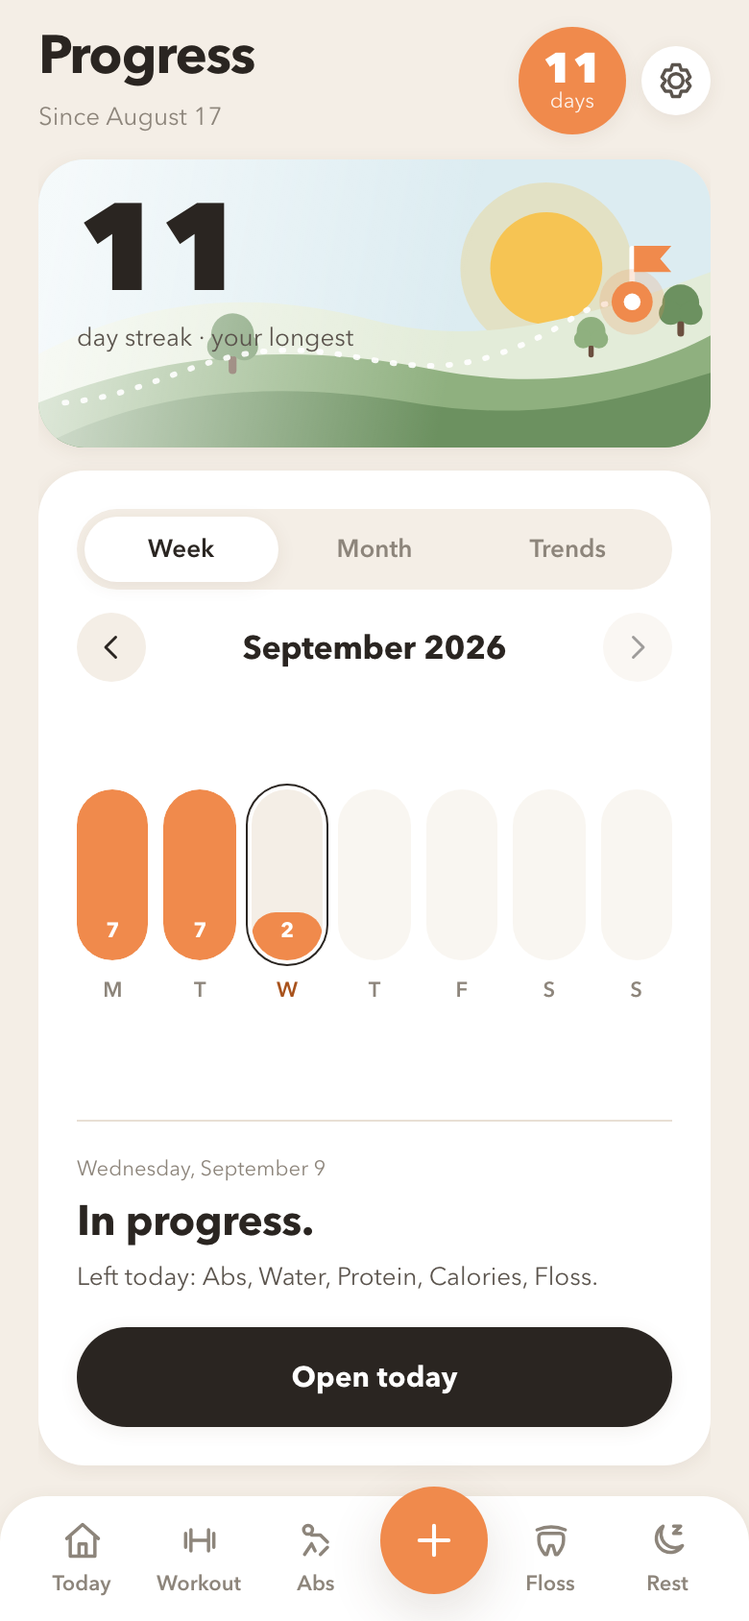
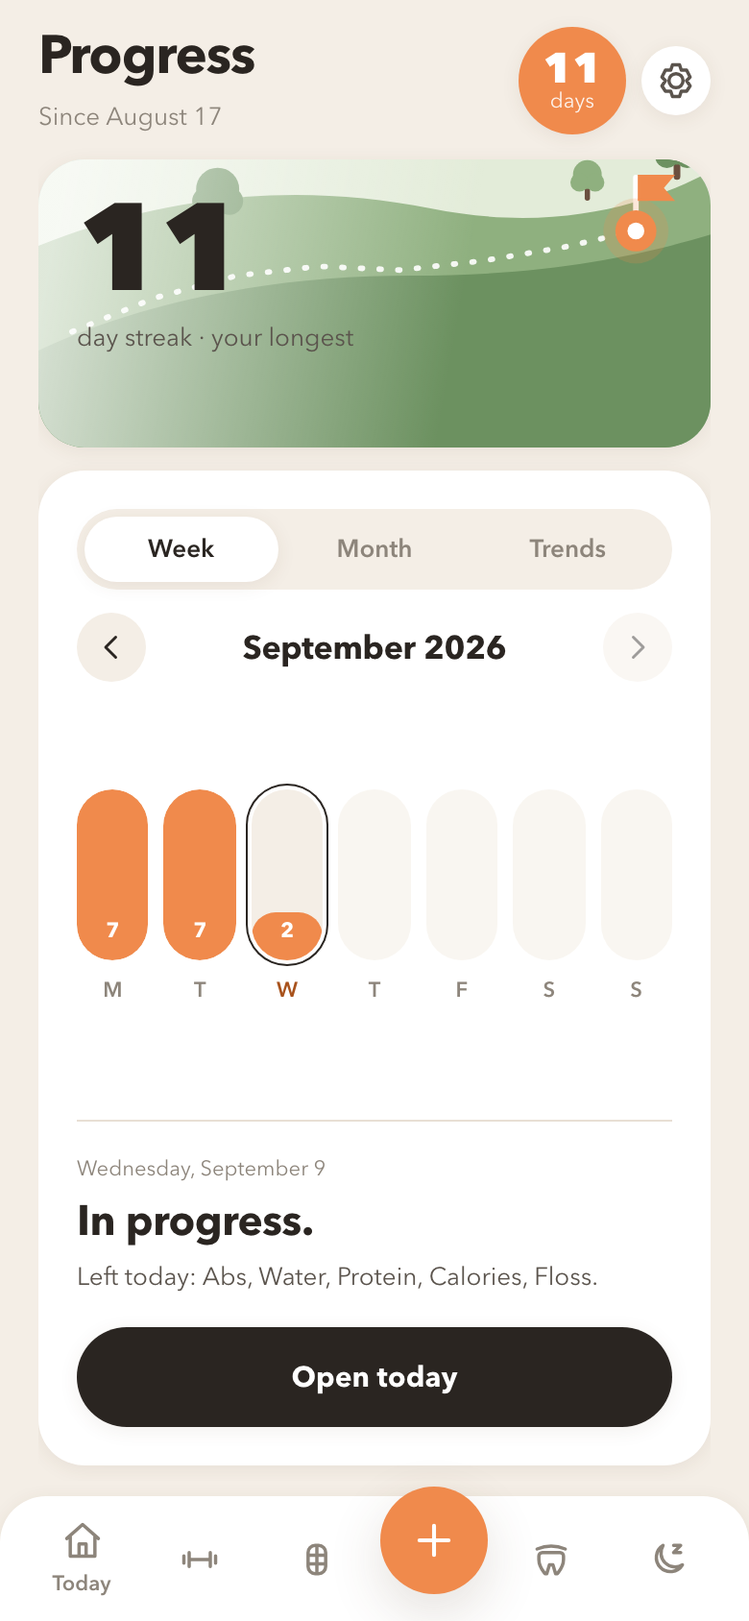
Answer the blind round: one visual language, a scene that fills its frame
Water and food now speak the same way, with a bar each, after a reviewer
picked the reference for craft on exactly that split. The hills fill the
card instead of sitting under an empty sky, and the walker stands at the
day's progress, so the screen shows how today is going before a number is
read. Tabs carry the picture and tiles carry the word, so no habit is
labelled twice in one viewport.

Claude-Session: https://claude.ai/code/session_01VWWXSJPjffuaUiM86s3vvD

diff --git a/app/globals.css b/app/globals.css
@@ -10,7 +10,7 @@ h1,h2,h3,p{margin:0}h1{font-size:var(--t-xxl);font-weight:700;line-height:1.1;le
 .streak-badge{display:flex;flex-direction:column;align-items:center;justify-content:center;width:var(--z-disc);height:var(--z-disc);border-radius:50%;background:var(--c-accent);color:var(--c-card);line-height:1;flex-shrink:0;box-shadow:var(--sh-card)}.streak-badge strong{font-size:var(--t-xl);font-weight:800}.streak-badge span{font-size:var(--t-xs);opacity:.9}
 .zone-row{display:flex;align-items:center;justify-content:space-between;background:var(--c-accentSoft);color:var(--c-accentInk);padding:var(--s-2) var(--s-3);font-size:var(--t-sm);border-radius:var(--r-sm);flex-shrink:0;margin-top:var(--s-2)}
 .today-view,.habit-view,.progress-view,.you-view{min-height:0;flex:1;display:flex;flex-direction:column;gap:var(--s-3);padding-top:var(--s-3);overflow:hidden}
-.hero{position:relative;flex:1;min-height:var(--z-heroShort);max-height:var(--z-hero);border-radius:var(--r-lg);overflow:hidden;text-align:left;box-shadow:var(--sh-card);background:var(--c-butterSoft);flex-shrink:1}.hero .scene{position:absolute;inset:0;width:100%;height:100%}
+.hero{position:relative;flex:1;min-height:var(--z-heroShort);max-height:var(--z-heroMax);border-radius:var(--r-lg);overflow:hidden;text-align:left;box-shadow:var(--sh-card);background:var(--c-butterSoft);flex-shrink:1}.hero .scene{position:absolute;inset:0;width:100%;height:100%}
 .hero-copy{position:absolute;left:var(--s-5);top:var(--s-5);right:var(--z-thumb);display:flex;flex-direction:column;gap:var(--s-1);color:var(--c-ink)}.hero-copy strong{font-size:var(--t-xl);font-weight:800;letter-spacing:var(--ls-snug)}.hero-copy span{font-size:var(--t-sm);font-weight:600;color:var(--c-ink2)}.hero.is-complete .hero-copy strong{font-size:var(--t-xxl)}
 .hero-tag{position:absolute;right:var(--s-4);top:var(--s-4);display:inline-flex;align-items:center;gap:var(--s-1);background:var(--c-card);color:var(--c-ink);border-radius:var(--r-pill);padding:var(--s-2) var(--s-3) var(--s-2) var(--s-2);font-size:var(--t-sm);font-weight:700;box-shadow:var(--sh-card)}.hero-tag .mark{width:var(--s-5);height:var(--s-5)}.hero.is-done .hero-tag{background:var(--c-accent);color:var(--c-card)}
 .hero-back{position:absolute;left:var(--s-4);bottom:var(--s-4);background:var(--c-card);border-radius:var(--r-pill);padding:var(--s-2) var(--s-3);font-size:var(--t-sm);font-weight:700}
@@ -19,14 +19,14 @@ h1,h2,h3,p{margin:0}h1{font-size:var(--t-xxl);font-weight:700;line-height:1.1;le
 .pair{display:grid;grid-template-columns:1fr 1.25fr;gap:var(--s-3);flex:0 0 auto}.card-copy{display:flex;flex-direction:column;gap:var(--s-1);min-height:0}
 .card{background:var(--c-card);border-radius:var(--r-lg);box-shadow:var(--sh-card)}
 .pair .card{position:relative;overflow:hidden;text-align:left;padding:var(--s-4);display:flex;flex-direction:column;gap:var(--s-1)}.card-main{display:flex;flex-direction:column;gap:var(--s-1);text-align:left;flex:1;min-height:0}
-.card-art{display:grid;place-items:center;flex:0 0 var(--z-tileArt);border-radius:var(--r-md);margin-bottom:var(--s-2)}.water .card-art{background:var(--c-skySoft)}.food .card-art{background:var(--c-accentSoft)}.glass{width:auto;height:100%;max-height:var(--z-tileArt);padding:var(--s-1) 0}.bowl{width:auto;height:100%;max-height:var(--z-tileArt);padding:var(--s-1) 0}
-.card-title{font-size:var(--t-md);font-weight:700}.card-value{font-size:var(--t-sm);color:var(--c-muted)}.card-value strong{display:block;font-size:var(--t-xl);font-weight:800;color:var(--c-ink);letter-spacing:var(--ls-snug)}.pair .is-done .card-title{color:var(--c-sageDeep)}
-.card-minus{position:absolute;right:var(--s-3);bottom:var(--s-3);display:grid;place-items:center;width:var(--z-minus);height:var(--z-minus);border-radius:50%;background:var(--c-ground);color:var(--c-ink2)}
+.card-art{display:grid;place-items:center;flex:1 1 var(--z-tileArt);min-height:var(--z-disc);max-height:var(--z-tileArt);border-radius:var(--r-md);margin-bottom:var(--s-2)}.water .card-art{background:var(--c-skySoft)}.food .card-art{background:var(--c-accentSoft)}.glass{width:auto;height:100%;max-height:var(--z-tileArt);padding:var(--s-1) 0}.bowl{width:auto;height:100%;max-height:var(--z-tileArt);padding:var(--s-1) 0}
+.card-title{font-size:var(--t-md);font-weight:700}.card-value{font-size:var(--t-sm);color:var(--c-muted);margin-bottom:var(--s-1)}.card-value strong{display:block;font-size:var(--t-xl);font-weight:800;color:var(--c-ink);letter-spacing:var(--ls-snug)}.pair .is-done .card-title{color:var(--c-sageDeep)}
+.card-steps{display:flex;gap:var(--s-2);justify-content:space-between;margin-top:auto;padding-top:var(--s-2)}.card-cta{display:flex;align-items:center;justify-content:center;gap:var(--s-1);margin-top:auto;height:var(--z-minus);border-radius:var(--r-pill);background:var(--c-accentSoft);color:var(--c-accentInk);font-size:var(--t-sm);font-weight:700}.card-step{display:grid;place-items:center;flex:1;height:var(--z-minus);border-radius:var(--r-pill);background:var(--c-ground);color:var(--c-ink2)}.card-step.is-add{background:var(--c-sky);color:var(--c-card)}
 .liquid{transition:transform .9s cubic-bezier(.4,0,.2,1)}
 .meter{display:block;margin-top:var(--s-1)}.meter-head{display:flex;justify-content:space-between;font-size:var(--t-xs);font-weight:600;color:var(--c-ink2);margin-bottom:var(--s-1)}.meter-bar{display:block;position:relative;height:var(--z-meter);border-radius:var(--r-pill);background:var(--c-ground);overflow:hidden}.meter-fill{position:absolute;left:0;top:0;bottom:0;border-radius:var(--r-pill);background:var(--c-accent);transition:width .7s cubic-bezier(.4,0,.2,1)}.meter-range{position:absolute;top:0;bottom:0;background:var(--c-sageSoft)}.meter.is-done .meter-fill{background:var(--c-sage)}
 .home-footer{margin-top:auto;display:flex;align-items:center;justify-content:space-between;font-size:var(--t-sm);color:var(--c-muted);padding:0 var(--s-1);flex-shrink:0}
 .text-button{font-size:var(--t-sm);font-weight:600;color:var(--c-accentInk);padding:var(--s-2) var(--s-1);min-height:var(--s-7)}
-.bottom-nav{display:flex;align-items:center;justify-content:space-around;flex-shrink:0;background:var(--c-card);margin:var(--s-2) calc(-1 * var(--s-5)) 0;padding:var(--s-2) var(--s-3) calc(env(safe-area-inset-bottom) + var(--s-2));border-radius:var(--r-lg) var(--r-lg) 0 0;box-shadow:var(--sh-card);min-height:var(--z-nav)}.bottom-nav button{display:flex;flex-direction:column;align-items:center;gap:var(--s-1);min-width:var(--z-disc);color:var(--c-muted);font-size:var(--t-xs);font-weight:600;padding:var(--s-1)}.bottom-nav button.active{color:var(--c-ink)}.bottom-nav button.active svg{stroke-width:2.4}
+.bottom-nav{display:flex;align-items:center;justify-content:space-around;flex-shrink:0;background:var(--c-card);margin:var(--s-2) calc(-1 * var(--s-5)) 0;padding:var(--s-2) var(--s-3) calc(env(safe-area-inset-bottom) + var(--s-2));border-radius:var(--r-lg) var(--r-lg) 0 0;box-shadow:var(--sh-card);min-height:var(--z-nav)}.bottom-nav .icon-tab{padding:var(--s-3) var(--s-2)}.bottom-nav .icon-tab.active{color:var(--c-accentInk)}.bottom-nav button{display:flex;flex-direction:column;align-items:center;gap:var(--s-1);min-width:var(--z-disc);color:var(--c-muted);font-size:var(--t-xs);font-weight:600;padding:var(--s-1)}.bottom-nav button.active{color:var(--c-ink)}.bottom-nav button.active svg{stroke-width:2.4}
 .nav-add{display:grid;place-items:center;width:var(--z-add);height:var(--z-add);border-radius:50%;background:var(--c-accent);color:var(--c-card);box-shadow:var(--sh-float);margin-top:calc(-1 * var(--s-5))}.bottom-nav .nav-add{display:grid;place-items:center;padding:0;min-width:0;color:var(--c-card)}.bottom-nav .nav-add svg{display:block}
 .progress-view,.you-view{padding-bottom:var(--s-2)}.progress-view .streak-card{flex:1 1 auto;min-height:0;display:flex;flex-direction:column;overflow:hidden}.progress-view .calendar-body{flex:1;min-height:0;display:flex;flex-direction:column;justify-content:center}.you-view{gap:var(--s-4);justify-content:flex-start}
 .progress-hero{position:relative;flex:0 1 var(--z-sceneShort);min-height:var(--z-bars);border-radius:var(--r-lg);overflow:hidden;flex-shrink:0;box-shadow:var(--sh-card)}.progress-hero .scene{position:absolute;inset:0;width:100%;height:100%}.progress-hero::after{content:'';position:absolute;inset:0;background:linear-gradient(100deg,var(--c-card) 4%,transparent 62%);opacity:.72;pointer-events:none}.progress-hero .big-number{position:absolute;left:var(--s-5);top:var(--s-4);text-align:left;z-index:1}.progress-hero .big-number span{margin-top:var(--s-1)}.big-number{text-align:center}.big-number strong{display:block;font-size:var(--t-hero);font-weight:800;line-height:1;letter-spacing:var(--ls-tight)}.big-number span{display:block;margin-top:var(--s-2);font-size:var(--t-sm);color:var(--c-ink2)}

diff --git a/components/App.tsx b/components/App.tsx
@@ -63,7 +63,7 @@ export default function App(){
   {state.clock&&state.clock.zone!==todayZone()&&<button className="zone-row" onClick={()=>setModal('zone')}>Your timezone changed. Keep your day in step<Icon name="arrow" size={16}/></button>}
   {tab==='today'?<section className="today-view">
    <button className={`hero ${done.walk?'is-done':''} ${pulse.walk?'moving':''} ${complete?'is-complete':''}`} aria-label={done.walk?'Undo walk':'Log walk'} aria-pressed={done.walk} onClick={()=>habitTap('walk')}>
-    <Hills phase={day.rest?'night':phase} walked={done.walk} celebrate={complete&&!selected}/>
+    <Hills phase={day.rest?'night':phase} walked={done.walk} progress={count/habits.length} celebrate={complete&&!selected}/>
     <span className="hero-copy"><strong>{complete&&!selected?'Every one.':day.rest?'Resting today.':done.walk?'Walked.':'A walk today.'}</strong><span>{complete&&!selected?`All ${habits.length} habits, all done.`:day.rest?'The streak stays.':done.walk?'Tap again to undo.':'Tap when you\u2019re back.'}</span></span>
     <span className="hero-tag">{done.walk?<><Icon name="check" size={14}/>Walk</>:<><Mark name="walk"/>Walk</>}</span>
     {selected&&<span className="hero-back">{`${count} of ${habits.length}`}</span>}
@@ -76,14 +76,15 @@ export default function App(){
    </div>
    <div className="pair">
     <div className={`card water ${done.water?'is-done':''} ${pulse.water?'pouring':''}`}>
-     <button className="card-main" aria-label="Add a glass of water" aria-pressed={done.water} onClick={pour}><span className="card-art"><Glass level={day.water/day.targets.water} pouring={!!pulse.water}/></span><span className="card-copy"><span className="card-title">{names.water}</span><span className="card-value"><strong>{litres(day.water)} L</strong> of {litres(day.targets.water)} L</span></span></button>
-     <button className="card-minus" aria-label="Remove a glass" disabled={day.water<=0} onClick={sip}><Icon name="minus" size={16}/></button>
+     <button className="card-main" aria-label="Add a glass of water" aria-pressed={done.water} onClick={pour}><span className="card-art"><Glass level={day.water/day.targets.water} pouring={!!pulse.water}/></span><span className="card-copy"><span className="card-title">{names.water}</span><span className="card-value"><strong>{litres(day.water)} L</strong></span><Meter label="Glasses" value={day.water} max={day.targets.water} unit="" done={done.water} display={`${Math.round(day.water/250)} of ${Math.round(day.targets.water/250)}`}/></span></button>
+     <span className="card-steps"><button className="card-step" aria-label="Remove a glass" disabled={day.water<=0} onClick={sip}><Icon name="minus" size={16}/></button><button className="card-step is-add" aria-label="Add a glass" onClick={pour}><Icon name="plus" size={16}/></button></span>
     </div>
     <button className={`card food ${done.calories&&done.protein?'is-done':''} ${pulse.meal?'eating':''}`} aria-label="Food. Log a meal" onClick={()=>{setEditMeal(null);setPhoto(null);setModal('meal');}}>
      <span className="card-art"><Bowl full={food.calories>0} eating={!!pulse.meal} level={food.calories/Math.max(1,day.targets.calorieMax)}/></span>
      <span className="card-copy"><span className="card-title">Food</span>
       <Meter label={names.calories} value={food.calories} min={day.targets.calorieMin} max={day.targets.calorieMax} unit="kcal" done={done.calories}/>
-      <Meter label={names.protein} value={food.protein} max={day.targets.protein} unit="g" done={done.protein}/></span>
+      <Meter label={names.protein} value={food.protein} max={day.targets.protein} unit="g" done={done.protein}/>
+      <span className="card-cta"><Icon name="plus" size={16}/>Log a meal</span></span>
     </button>
    </div>
    {selected&&<div className="home-footer"><span>{dateLabel}</span><button className="text-button" onClick={()=>setSelected(null)}>Back to today</button></div>}
@@ -95,9 +96,9 @@ export default function App(){
     onToggle={()=>tab==='rest'?restTap():habitTap(tab as Habit)}/>}
   {toast&&<div className="toast" role="status"><span>{toast.text}</span>{toast.undo&&<button onClick={()=>{toast.undo!();setToast(null);}}>Undo</button>}</div>}
   <nav className="bottom-nav" aria-label="Main navigation">
-   {[['today','home','Today'],['workout','workout','Workout'],['abs','abs','Abs']].map(([value,icon,label])=><button key={value} className={tab===value?'active':''} aria-current={tab===value?'page':undefined} onClick={()=>{setTab(value);setSelected(null);}}><Icon name={icon}/><span>{label}</span></button>)}
+   {[['today','home','Today'],['workout','workout','Workout'],['abs','abs','Abs']].map(([value,icon,label])=><button key={value} className={`${tab===value?'active':''} ${value==='today'?'':'icon-tab'}`} aria-label={label} aria-current={tab===value?'page':undefined} onClick={()=>{setTab(value);setSelected(null);}}><Icon name={icon}/>{value==='today'&&<span>{label}</span>}</button>)}
    <button className="nav-add" aria-label="Log a meal" onClick={()=>{setEditMeal(null);setPhoto(null);setModal('meal');}}><Icon name="plus" size={26}/></button>
-   {[['floss','floss','Floss'],['rest','rest','Rest']].map(([value,icon,label])=><button key={value} className={tab===value?'active':''} aria-current={tab===value?'page':undefined} onClick={()=>{setTab(value);setSelected(null);}}><Icon name={icon}/><span>{label}</span></button>)}
+   {[['floss','floss','Floss'],['rest','rest','Rest']].map(([value,icon,label])=><button key={value} className={`icon-tab ${tab===value?'active':''}`} aria-label={label} aria-current={tab===value?'page':undefined} onClick={()=>{setTab(value);setSelected(null);}}><Icon name={icon}/></button>)}
   </nav>
   <input className="sr-only" ref={file} aria-label="Photograph a meal" type="file" accept="image/*" capture="environment" onChange={e=>{const f=e.target.files?.[0];if(f){setPhoto(f);setEditMeal(null);setModal('meal');}e.target.value='';}}/>
   {modal&&<Sheet title={modal==='camera'?'Photo':modal==='meal'?'Food':modal==='meals'?'Today’s food':modal==='rest'?'Rest day':modal==='rescue'?'Rescue this day':modal==='weight'?'Weigh in':modal==='targets'?'Daily targets':modal==='setup'?'Your details':modal==='zone'?'Timezone':modal==='lock'?'Lock this device?':'How targets are set'} onClose={()=>{setModal(null);setPhoto(null);setEditMeal(null);}}>
@@ -135,9 +136,9 @@ function You({notice,onOpen}:{notice:string;onOpen:(key:string)=>void}){
   <button className="text-button" onClick={()=>onOpen('lock')}>Lock this device</button>
  </section>;
 }
-function Meter({label,value,min,max,unit,done}:{label:string;value:number;min?:number;max:number;unit:string;done:boolean}){
+function Meter({label,value,min,max,unit,done,display}:{label:string;value:number;min?:number;max:number;unit:string;done:boolean;display?:string}){
  const span=Math.max(max*1.15,value);const width=Math.min(100,value/span*100);
- return <span className={`meter ${done?'is-done':''}`}><span className="meter-head"><span>{label}</span><span>{format(value)}{min?'':` / ${format(max)}`} {unit}</span></span><span className="meter-bar">{min&&<span className="meter-range" style={{left:`${min/span*100}%`,width:`${(max-min)/span*100}%`}}/>}<span className="meter-fill" style={{width:`${width}%`}}/></span></span>;
+ return <span className={`meter ${done?'is-done':''}`}><span className="meter-head"><span>{label}</span><span>{display??`${format(value)}${min?'':` / ${format(max)}`} ${unit}`}</span></span><span className="meter-bar">{min&&<span className="meter-range" style={{left:`${min/span*100}%`,width:`${(max-min)/span*100}%`}}/>}<span className="meter-fill" style={{width:`${width}%`}}/></span></span>;
 }
 function Gate({notice}:{notice:string}){const [error,setError]=useState('');const [busy,setBusy]=useState(false);return <main className="gate"><Hills className="gate-scene"/><form onSubmit={async e=>{e.preventDefault();setBusy(true);setError(await unlock(String(new FormData(e.currentTarget).get('passphrase'))));setBusy(false);}}><label>Passphrase<input name="passphrase" type="password" autoComplete="current-password" required/></label><button className="primary" disabled={busy}>{busy?'Opening…':'Open'}</button>{(error||notice)&&<p role="alert">{error||notice}</p>}</form></main>;}
 function Sheet({title,onClose,children}:{title:string;onClose:()=>void;children:ReactNode}){const ref=useRef<HTMLDialogElement>(null);useEffect(()=>{const el=ref.current;el?.showModal();return()=>el?.close();},[]);return <dialog ref={ref} className="sheet" onCancel={onClose} onClick={e=>{if(e.target===e.currentTarget)onClose();}}><div className="sheet-inner"><div className="sheet-handle"/><header><h2>{title}</h2><button aria-label="Close" className="icon-button" onClick={onClose}><Icon name="close"/></button></header>{children}</div></dialog>;}

diff --git a/components/Scenes.tsx b/components/Scenes.tsx
@@ -6,30 +6,33 @@ const far:Record<Phase,string>={morning:c.sageSoft,day:c.sageSoft,evening:c.coco
 const Cloud=({x,y,s=1,o=.95}:{x:number;y:number;s?:number;o?:number})=><g transform={`translate(${x} ${y}) scale(${s})`} opacity={o}><path d="M0 18q-10 0-10-9t10-9q4-10 16-10t16 10q10 0 10 9t-10 9z" fill={c.card}/></g>;
 const Tree=({x,y,s=1,tone=c.sageDeep}:{x:number;y:number;s?:number;tone?:string})=><g transform={`translate(${x} ${y}) scale(${s})`}><rect x="-2" y="0" width="4" height="14" rx="2" fill={c.cocoa}/><circle cx="0" cy="-6" r="11" fill={tone}/><circle cx="-6" cy="0" r="7" fill={tone}/><circle cx="6" cy="0" r="7" fill={tone}/></g>;
 const Bird=({x,y,s=1}:{x:number;y:number;s?:number})=><path d="M0 0q4-5 8 0q4-5 8 0" transform={`translate(${x} ${y}) scale(${s})`} fill="none" stroke={c.ink2} strokeWidth="1.6" strokeLinecap="round"/>;
-// The walk path crosses the near hill; the marker slides to the flag when the walk is done.
-export const walkPath='M14 176C60 172 84 150 128 148S200 166 246 150s40-28 72-28';
-export const walkStart={x:14,y:176},walkEnd={x:318,y:122};
-export function Hills({phase='morning',walked=false,celebrate=false,quiet=false,className=''}:{phase?:Phase;walked?:boolean;celebrate?:boolean;quiet?:boolean;className?:string}){
- const night=phase==='night';const sunTone=night?c.card:c.butter;const sunY=quiet?104:phase==='morning'?96:phase==='day'?54:phase==='evening'?104:52;
+// The walk path runs along the near ridge. The walker stands at the day's progress, so the
+// scene answers "how is today going" before any number is read.
+export const walkPoints:[number,number][]=[[18,338],[62,320],[106,308],[150,303],[194,305],[238,300],[280,293],[320,284]];
+export const walkPath='M18 338L62 320L106 308L150 303L194 305L238 300L280 293L320 284';
+export function Hills({phase='morning',walked=false,celebrate=false,quiet=false,progress,className=''}:{phase?:Phase;walked?:boolean;celebrate?:boolean;quiet?:boolean;progress?:number;className?:string}){
+ const night=phase==='night';const sunTone=night?c.card:c.butter;
+ const sunY=quiet?186:phase==='morning'?214:phase==='day'?188:phase==='evening'?220:190;
+ const share=progress??(walked?1:0);
+ const [wx,wy]=walkPoints[Math.max(0,Math.min(walkPoints.length-1,Math.round(share*(walkPoints.length-1))))];
  return <svg className={`scene ${className}`} viewBox="0 0 360 400" preserveAspectRatio="xMidYMax slice" aria-hidden="true">
-  <rect width="360" height="400" fill={sky[phase]}/><g transform="translate(0 200)">
-  {night&&[[40,30],[90,18],[150,40],[230,22],[290,44],[330,16],[200,70]].map(([x,y],i)=><circle key={i} cx={x} cy={y} r={i%3?1.6:2.4} fill={c.card} opacity=".85"/>)}
-  <g className="sun">{celebrate&&<g className="rays" style={{transformOrigin:`272px ${sunY+200}px`}}>{Array.from({length:12},(_,i)=><rect key={i} x="-3" y="-72" width="6" height="18" rx="3" fill={c.butter} opacity=".7" transform={`translate(272 ${sunY}) rotate(${i*30})`}/>)}</g>}
+  <rect width="360" height="400" fill={sky[phase]}/>
+  {night&&[[40,96],[92,80],[150,112],[232,86],[292,120],[330,78],[196,146],[68,156]].map(([x,y],i)=><circle key={i} cx={x} cy={y} r={i%3?1.8:2.6} fill={c.card} opacity=".85"/>)}
+  <g className="sun">{celebrate&&<g className="rays" style={{transformOrigin:`272px ${sunY}px`}}>{Array.from({length:12},(_,i)=><rect key={i} x="-3" y="-72" width="6" height="18" rx="3" fill={c.butter} opacity=".7" transform={`translate(272 ${sunY}) rotate(${i*30})`}/>)}</g>}
    <circle cx="272" cy={sunY} r="46" fill={sunTone} opacity={night?.12:.28}/>
    <circle cx="272" cy={sunY} r="30" fill={sunTone}/>
    {night&&<circle cx="284" cy={sunY-8} r="26" fill={sky[phase]}/>}
   </g>
-  {!night&&!quiet&&<><Bird x={150} y={70}/><Bird x={182} y={58} s={.8}/></>}
-  {!quiet&&<Cloud x={40} y={92} s={1.1} o={night?.25:.95}/>}<Cloud x={196} y={30} s={.85} o={night?.25:.9}/>
-  <path d="M0 150C60 118 120 116 180 132S300 128 360 106V200H0z" fill={far[phase]}/>
-  <path d="M0 176C70 148 140 144 210 158S330 156 360 140V200H0z" fill={night?c.nightSoft:c.sage} opacity={night?.55:1}/>
-  <path d="M0 200C60 168 130 164 200 176S320 172 360 160V200z" fill={night?c.night:c.sageDeep}/>
-  <Tree x={104} y={146} s={1.05} tone={night?c.nightSoft:c.sageDeep}/><Tree x={344} y={128} s={.9} tone={night?c.nightSoft:c.sageDeep}/><Tree x={296} y={142} s={.7} tone={night?c.nightSoft:c.sage}/>
+  {!night&&!quiet&&<><Bird x={132} y={196}/><Bird x={166} y={180} s={.8}/></>}
+  {!quiet&&<Cloud x={52} y={214} s={1.1} o={night?.25:.95}/>}<Cloud x={196} y={148} s={.85} o={night?.25:.9}/>
+  <path d="M0 252C60 220 120 218 180 234S300 230 360 208V400H0z" fill={far[phase]}/>
+  <path d="M0 292C70 264 140 258 210 272S330 268 360 252V400H0z" fill={night?c.nightSoft:c.sage} opacity={night?.55:1}/>
+  <path d="M0 348C60 320 130 308 200 308S320 298 360 286V400H0z" fill={night?c.night:c.sageDeep}/>
+  <Tree x={96} y={268} s={1.05} tone={night?c.nightSoft:c.sageDeep}/><Tree x={342} y={244} s={.9} tone={night?c.nightSoft:c.sageDeep}/><Tree x={294} y={258} s={.7} tone={night?c.nightSoft:c.sage}/>
   <path d={walkPath} fill="none" stroke={c.card} strokeWidth="3" strokeLinecap="round" strokeDasharray="1 9" opacity=".9"/>
-  <g className="flag" transform={`translate(${walkEnd.x} ${walkEnd.y})`}><rect x="-1.5" y="-30" width="3" height="32" rx="1.5" fill={c.card}/><path d="M1 -30h20l-6 7 6 7H1z" fill={c.accent}/></g>
-  <g className={`walker ${walked?'is-done':''}`} style={{transform:`translate(${(walked?walkEnd:walkStart).x}px,${(walked?walkEnd:walkStart).y}px)`}}><circle r="11" fill={c.accent}/><circle r="11" fill={c.accent} className="pulse" opacity=".35"/><circle r="4.5" fill={c.card}/></g>
-  {celebrate&&<g className="petals" aria-hidden="true">{[c.accent,c.rose,c.butter,c.lilac,c.sage,c.sky].flatMap((tone,i)=>[0,1,2].map(j=><rect key={i*3+j} className="petal" x={20+((i*3+j)*19)%330} y={-214} width="7" height="12" rx="3" fill={tone} style={{animationDelay:`${((i*3+j)%7)*.16}s`}}/>))}</g>}
-  </g>
+  <g className="flag" transform="translate(320 284)"><rect x="-1.5" y="-30" width="3" height="32" rx="1.5" fill={c.card}/><path d="M1 -30h20l-6 7 6 7H1z" fill={c.accent}/></g>
+  <g className={`walker ${walked?'is-done':''}`} style={{transform:`translate(${wx}px,${wy}px)`}}><circle r="11" fill={c.accent}/><circle r="11" fill={c.accent} className="pulse" opacity=".35"/><circle r="4.5" fill={c.card}/></g>
+  {celebrate&&<g className="petals" aria-hidden="true">{[c.accent,c.rose,c.butter,c.lilac,c.sage,c.sky].flatMap((tone,i)=>[0,1,2].map(j=><rect key={i*3+j} className="petal" x={20+((i*3+j)*19)%330} y={-14} width="7" height="12" rx="3" fill={tone} style={{animationDelay:`${((i*3+j)%7)*.16}s`}}/>))}</g>}
  </svg>;
 }
 export function Glass({level,pouring=false}:{level:number;pouring?:boolean}){

diff --git a/app/tokens.css b/app/tokens.css
@@ -1,1 +1,1 @@
-:root{--c-ground:#f4eee6;--c-ground2:#ede5db;--c-card:#ffffff;--c-cardTint:#fbf7f2;--c-line:#e8dfd4;--c-ink:#2a2521;--c-ink2:#5b544d;--c-muted:#8d857b;--c-accent:#f08a4c;--c-accentDeep:#d9702f;--c-accentSoft:#fde4d2;--c-accentInk:#a8521c;--c-sage:#8fb07f;--c-sageDeep:#6c9160;--c-sageSoft:#e3ecd9;--c-sky:#8ec5d6;--c-skySoft:#dcecf1;--c-skyDeep:#5e9fb4;--c-butter:#f6c453;--c-butterSoft:#fbebc0;--c-rose:#f0a89c;--c-roseSoft:#f9e0da;--c-lilac:#b9aee0;--c-lilacSoft:#e9e4f4;--c-cocoa:#6b4f3f;--c-cocoaSoft:#d9c3b3;--c-night:#2f3550;--c-nightSoft:#8a90b3;--c-shadow:rgba(84,60,36,.08);--c-shadowDeep:rgba(84,60,36,.16);--c-scrim:rgba(42,37,33,.36);--r-sm:12px;--r-md:18px;--r-lg:24px;--r-xl:32px;--r-pill:999px;--s-0:0px;--s-1:4px;--s-2:8px;--s-3:12px;--s-4:16px;--s-5:20px;--s-6:24px;--s-7:32px;--s-8:40px;--s-9:56px;--t-xs:11px;--t-sm:13px;--t-md:15px;--t-lg:17px;--t-xl:22px;--t-xxl:28px;--t-hero:64px;--ls-tight:-.03em;--ls-snug:-.02em;--ls-normal:-.01em;--sh-card:0 2px 10px rgba(84,60,36,.08);--sh-float:0 10px 28px rgba(84,60,36,.16);--sh-sheet:0 -8px 60px rgba(84,60,36,.16);--z-hairline:1px;--z-bw:2px;--z-ring:3px;--z-dot:6px;--z-meter:8px;--z-handle:36px;--z-icon:22px;--z-minus:32px;--z-cell:36px;--z-tap:44px;--z-disc:56px;--z-add:56px;--z-tile:64px;--z-nav:64px;--z-glass:76px;--z-bowl:84px;--z-bars:112px;--z-pair:184px;--z-hero:368px;--z-heroShort:200px;--z-spark:100px;--z-preview:50dvh;--z-shell:440px;--z-shellMax:960px;--z-sheet:90dvh;--z-dot2:10px;--z-plate:16px;--z-discLg:72px;--z-tileArt:96px;--z-sceneShort:150px;--z-scene:220px;--z-rail:40px;--z-thumb:132px;--z-liftRise:56px;--z-flossDrop:128px;--z-restSink:6px;--font:ui-rounded,'SF Pro Rounded','Avenir Next','Nunito','Segoe UI',system-ui,sans-serif}
+:root{--c-ground:#f4eee6;--c-ground2:#ede5db;--c-card:#ffffff;--c-cardTint:#fbf7f2;--c-line:#e8dfd4;--c-ink:#2a2521;--c-ink2:#5b544d;--c-muted:#8d857b;--c-accent:#f08a4c;--c-accentDeep:#d9702f;--c-accentSoft:#fde4d2;--c-accentInk:#a8521c;--c-sage:#8fb07f;--c-sageDeep:#6c9160;--c-sageSoft:#e3ecd9;--c-sky:#8ec5d6;--c-skySoft:#dcecf1;--c-skyDeep:#5e9fb4;--c-butter:#f6c453;--c-butterSoft:#fbebc0;--c-rose:#f0a89c;--c-roseSoft:#f9e0da;--c-lilac:#b9aee0;--c-lilacSoft:#e9e4f4;--c-cocoa:#6b4f3f;--c-cocoaSoft:#d9c3b3;--c-night:#2f3550;--c-nightSoft:#8a90b3;--c-shadow:rgba(84,60,36,.08);--c-shadowDeep:rgba(84,60,36,.16);--c-scrim:rgba(42,37,33,.36);--r-sm:12px;--r-md:18px;--r-lg:24px;--r-xl:32px;--r-pill:999px;--s-0:0px;--s-1:4px;--s-2:8px;--s-3:12px;--s-4:16px;--s-5:20px;--s-6:24px;--s-7:32px;--s-8:40px;--s-9:56px;--t-xs:11px;--t-sm:13px;--t-md:15px;--t-lg:17px;--t-xl:22px;--t-xxl:28px;--t-hero:64px;--ls-tight:-.03em;--ls-snug:-.02em;--ls-normal:-.01em;--sh-card:0 2px 10px rgba(84,60,36,.08);--sh-float:0 10px 28px rgba(84,60,36,.16);--sh-sheet:0 -8px 60px rgba(84,60,36,.16);--z-hairline:1px;--z-bw:2px;--z-ring:3px;--z-dot:6px;--z-meter:8px;--z-handle:36px;--z-icon:22px;--z-minus:32px;--z-cell:36px;--z-tap:44px;--z-disc:56px;--z-add:56px;--z-tile:64px;--z-nav:64px;--z-glass:76px;--z-bowl:84px;--z-bars:112px;--z-pair:184px;--z-hero:368px;--z-heroShort:200px;--z-spark:100px;--z-preview:50dvh;--z-shell:440px;--z-shellMax:960px;--z-sheet:90dvh;--z-dot2:10px;--z-plate:16px;--z-discLg:72px;--z-tileArt:96px;--z-sceneShort:150px;--z-scene:220px;--z-rail:40px;--z-thumb:132px;--z-heroMax:300px;--z-liftRise:56px;--z-flossDrop:128px;--z-restSink:6px;--font:ui-rounded,'SF Pro Rounded','Avenir Next','Nunito','Segoe UI',system-ui,sans-serif}

diff --git a/lib/tokens.ts b/lib/tokens.ts
@@ -19,7 +19,7 @@ export const text={xs:'11px',sm:'13px',md:'15px',lg:'17px',xl:'22px',xxl:'28px',
 export const track={tight:'-.03em',snug:'-.02em',normal:'-.01em'} as const;
 export const shadow={card:`0 2px 10px ${color.shadow}`,float:`0 10px 28px ${color.shadowDeep}`,sheet:`0 -8px 60px ${color.shadowDeep}`} as const;
 export const font={sans:"ui-rounded,'SF Pro Rounded','Avenir Next','Nunito','Segoe UI',system-ui,sans-serif"} as const;
-export const size={hairline:'1px',bw:'2px',ring:'3px',dot:'6px',meter:'8px',handle:'36px',icon:'22px',minus:'32px',cell:'36px',tap:'44px',disc:'56px',add:'56px',tile:'64px',nav:'64px',glass:'76px',bowl:'84px',bars:'112px',pair:'184px',hero:'368px',heroShort:'200px',spark:'100px',preview:'50dvh',shell:'440px',shellMax:'960px',sheet:'90dvh',dot2:'10px',plate:'16px',discLg:'72px',tileArt:'96px',sceneShort:'150px',scene:'220px',rail:'40px',thumb:'132px',liftRise:'56px',flossDrop:'128px',restSink:'6px'} as const;
+export const size={hairline:'1px',bw:'2px',ring:'3px',dot:'6px',meter:'8px',handle:'36px',icon:'22px',minus:'32px',cell:'36px',tap:'44px',disc:'56px',add:'56px',tile:'64px',nav:'64px',glass:'76px',bowl:'84px',bars:'112px',pair:'184px',hero:'368px',heroShort:'200px',spark:'100px',preview:'50dvh',shell:'440px',shellMax:'960px',sheet:'90dvh',dot2:'10px',plate:'16px',discLg:'72px',tileArt:'96px',sceneShort:'150px',scene:'220px',rail:'40px',thumb:'132px',heroMax:'300px',liftRise:'56px',flossDrop:'128px',restSink:'6px'} as const;
 export function cssVariables(){
  const lines:string[]=[];
  for(const [k,v] of Object.entries(color))lines.push(`--c-${k}:${v}`);

diff --git a/public/sw.js b/public/sw.js
@@ -1,4 +1,4 @@
-const VERSION='flaccid75-shell-d5d08db33741';
+const VERSION='flaccid75-shell-7aa61f5d6847';
 self.addEventListener('install',event=>{self.skipWaiting();event.waitUntil(caches.open(VERSION).then(async cache=>{await cache.addAll(['/','/manifest.webmanifest','/icon-192.png','/icon-512.png','/apple-touch-icon.png','/icon.svg','/icon-maskable.png','/splash-1170x2532.png']);const response=await cache.match('/');const html=await response.text();const assets=[...new Set([...html.matchAll(/(?:src|href)="([^" ]+\.(?:js|css)(?:\?[^" ]*)?)"/g)].map(m=>m[1]))].filter(x=>x.startsWith('/assets/'));await cache.addAll(assets);}));});
 self.addEventListener('activate',event=>{event.waitUntil((async()=>{for(const key of await caches.keys())if(key.startsWith('flaccid75-')&&key!==VERSION)await caches.delete(key);await self.clients.claim();})());});
 self.addEventListener('fetch',event=>{const request=event.request;const url=new URL(request.url);if(request.method!=='GET'||url.origin!==self.location.origin||url.pathname.startsWith('/api/'))return;

diff --git a/components/Icon.tsx b/components/Icon.tsx
@@ -1,7 +1,7 @@
 export function Icon({name,size=22}:{name:string;size?:number}){
  const paths:Record<string,React.ReactNode>={
- workout:<><path d="M4 8v8m3-10v12m10-12v12m3-10v8M7 12h10"/></>,
- abs:<><circle cx="7" cy="6" r="2.5"/><path d="M9 9h5l4 4M5 20l4-6m5 6 4-4m-9-2 2 4"/></>,
+ workout:<><path d="M3 10v4m3-6v8m12-8v8m3-6v4M6 12h12"/></>,
+ abs:<><rect x="7" y="4" width="10" height="16" rx="4"/><path d="M12 5v14M7.5 9.5h9M7.5 14.5h9"/></>,
  walk:<><path d="M9 3c3 0 4 3 3 6l-2 6-5-1 1-7q1-4 3-4m-5 14 5 1-1 3H3zm14-7c-3 0-4 3-3 6l2 3 4-1-1-5q0-3-2-3"/></>,
  water:<path d="M12 3S5 11 5 15a7 7 0 0 0 14 0c0-4-7-12-7-12ZM9 15q0 3 3 3"/>,
  protein:<><path d="M6 19c-8-5 0-18 10-13 4 2 6 9 1 12-3 2-6 0-11 1Z"/><path d="M8 13q-3-4 2-4m4 5 2-3"/></>,
